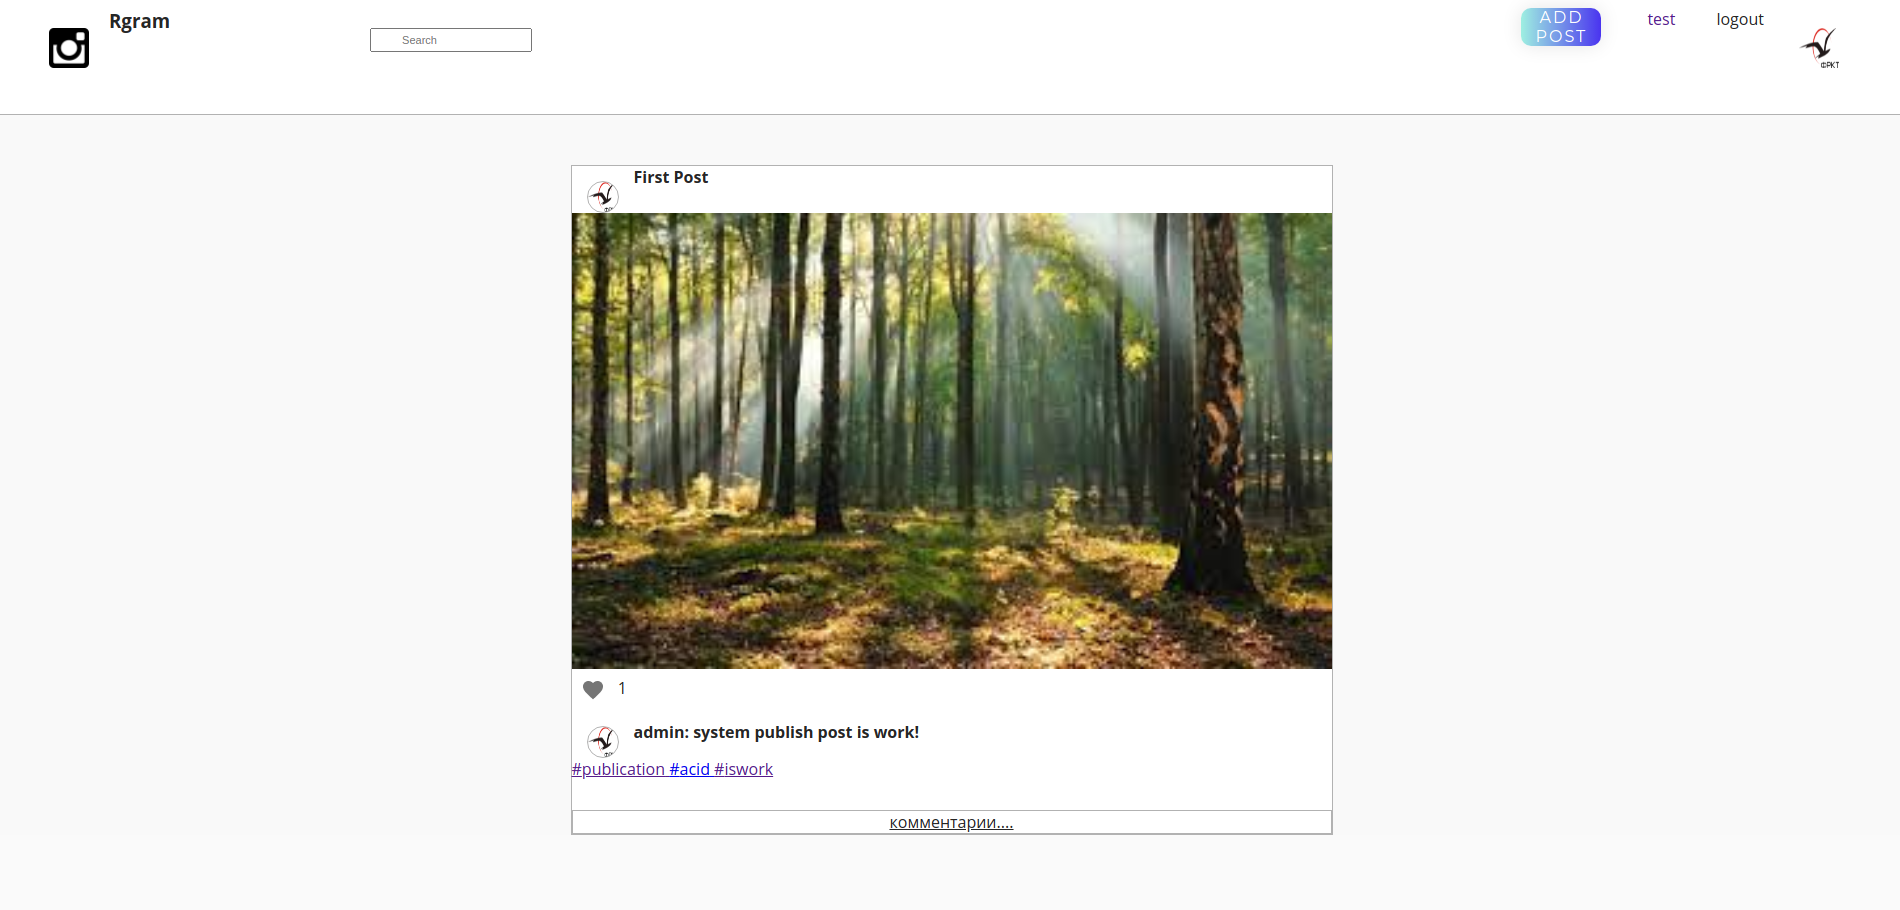
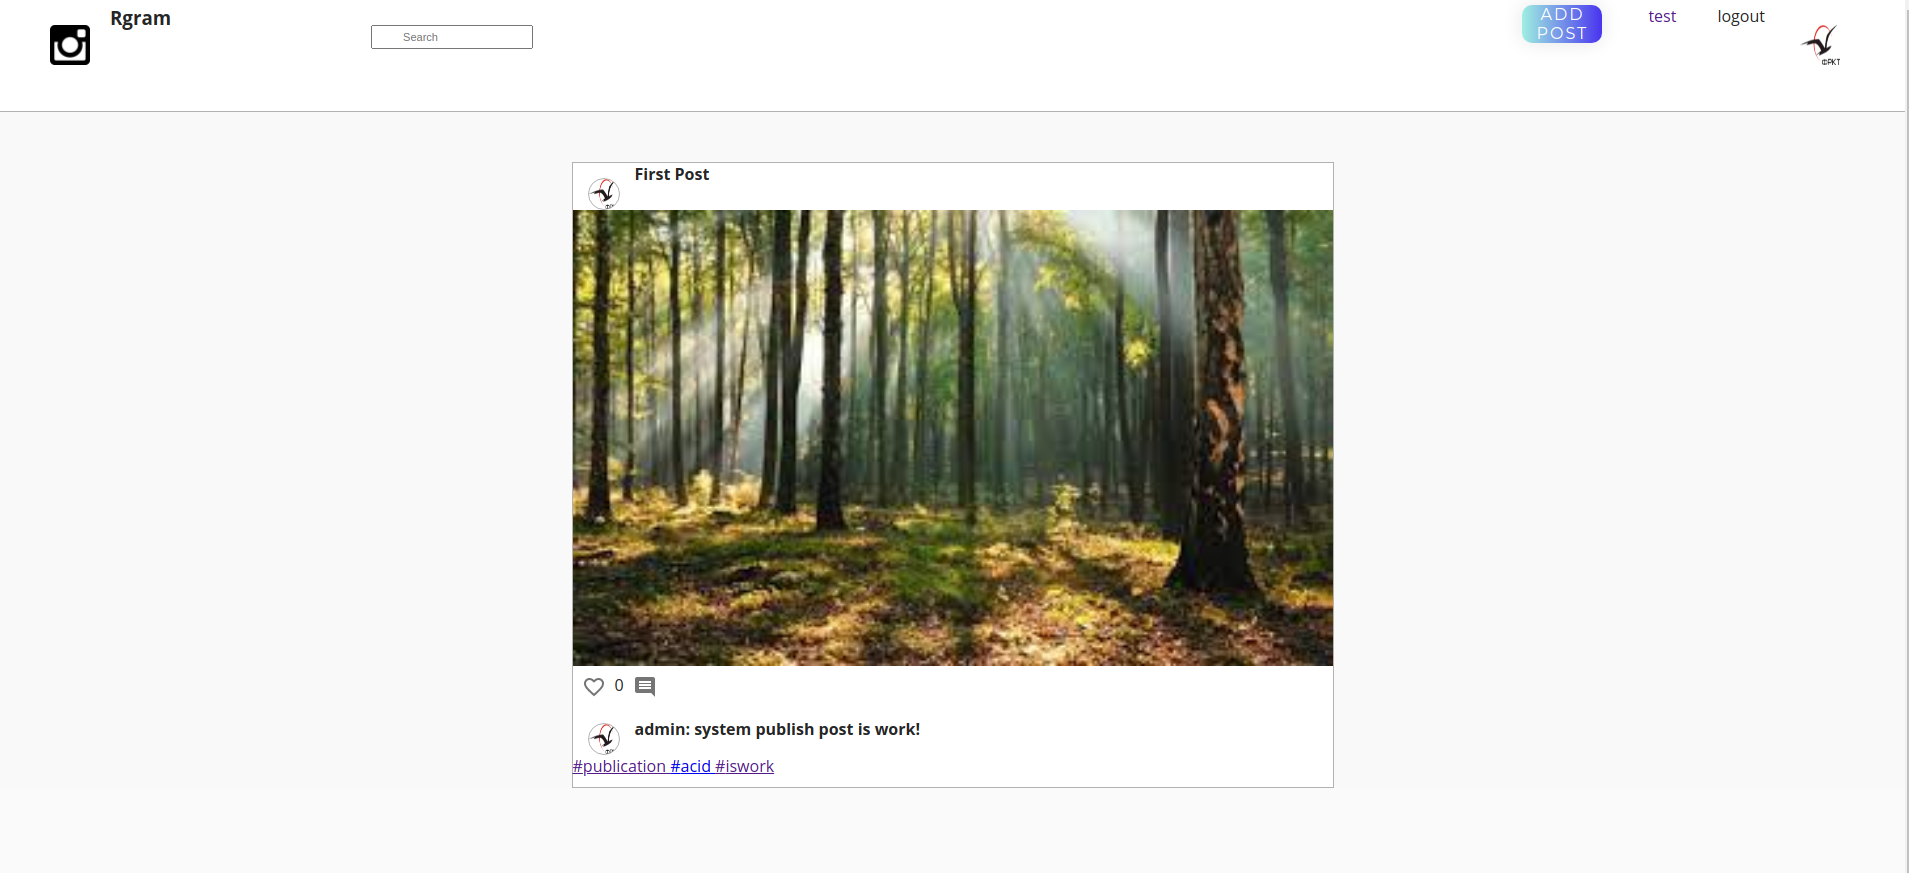
add commets

diff --git a/frontend/src/Components/PostFeed/Tag.js b/frontend/src/Components/PostFeed/Tag.js
@@ -4,6 +4,7 @@ import axios from "axios";
 import Checkbox from "@material-ui/core/Checkbox";
 import FavoriteBorder from "@material-ui/icons/FavoriteBorder";
 import Favorite from "@material-ui/icons/Favorite";
+import CommentIcon from "@material-ui/icons/Comment";
 
 
 class Tag extends Component {
@@ -37,24 +38,21 @@ class Tag extends Component {
         )
     }
 
-    getRenderLike = (likecounts, likeCheck, id_post) =>{
-        console.log(likeCheck)
+    getRenderLike = (likecount, likeCheck, id_post) =>{
         if (!likeCheck) {
             return (
-                <div>
-                    <Checkbox icon={<FavoriteBorder/>}
-                              checkedIcon={<Favorite/>}
-                              name="checkedH"
-                              onChange={(event) => this.sendLike(id_post)}/>{likecounts}
-                </div>);
+                <div><Checkbox icon={<FavoriteBorder/>}
+                               checkedIcon={<Favorite/>}
+                               name="checkedH"
+                               onChange={(event) => this.sendLike(id_post)}/>{likecount}<a href={"/comments/" + id_post} ><Checkbox icon={<CommentIcon/>}  checkedIcon={<CommentIcon/>} onChange={() =>{ return window.location = "/comments/" + id_post}}/></a></div>
+            );
         }
         return (
-            <div>
-                <Checkbox icon={<Favorite/>}
-                          checkedIcon={<FavoriteBorder/>}
-                          name="checkedH"
-                          onChange={(event) => this.sendLike(id_post)}/> {likecounts}
-            </div>);
+            <div><Checkbox icon={<Favorite/>}
+                           checkedIcon={<FavoriteBorder/>}
+                           name="checkedH"
+                           onChange={(event) => this.sendLike(id_post)}/> {likecount}<a href={"/comments/" + id_post} ><Checkbox icon={<CommentIcon/>}  checkedIcon={<CommentIcon/>} onChange={() =>{ return window.location = "/comments/" + id_post}}/></a></div>
+        );
 
     }
 
@@ -90,8 +88,7 @@ class Tag extends Component {
                             <img  src={"http://localhost:4433" + e.owner.avatar.replace("/nginx", '')} alt="dp" className="user"   />
                             <h4 className="caption-text fix-image">{e.owner.name}: {e.content}  </h4>
                         </div>
-                        <div>{items}</div>
-                        <div className="comment-area-btn"><a href={"/comments/" + e.id}>комментарии....</a></div>
+                        <div className="tag">{items}</div>
                     </div>);
             }).reverse();
         }

diff --git a/frontend/src/Components/PostFeed/PostFeed.js b/frontend/src/Components/PostFeed/PostFeed.js
@@ -4,6 +4,7 @@ import { getPostThunk } from "../../Actions/getPostActions";
 import Checkbox from '@material-ui/core/Checkbox';
 import Favorite from '@material-ui/icons/Favorite';
 import FavoriteBorder from '@material-ui/icons/FavoriteBorder';
+import CommentIcon from '@material-ui/icons/Comment';
 import axios from "axios";
 
 class PostFeed extends Component {
@@ -31,20 +32,18 @@ class PostFeed extends Component {
   getRenderLike = (likecount, likeCheck, id_post) =>{
     if (!likeCheck) {
        return (
-           <div>
-         <Checkbox icon={<FavoriteBorder/>}
+         <div><Checkbox icon={<FavoriteBorder/>}
                                            checkedIcon={<Favorite/>}
                                            name="checkedH"
-                                           onChange={(event) => this.sendLike(id_post)}/>{likecount}
-       </div>);
+                        onChange={(event) => this.sendLike(id_post)}/>{likecount}<a href={"/comments/" + id_post} ><Checkbox icon={<CommentIcon/>}  checkedIcon={<CommentIcon/>} onChange={() =>{ return window.location = "/comments/" + id_post}}/></a></div>
+       );
     }
     return (
-        <div>
-          <Checkbox icon={<Favorite/>}
+          <div><Checkbox icon={<Favorite/>}
                                         checkedIcon={<FavoriteBorder/>}
                                         name="checkedH"
-                                        onChange={(event) => this.sendLike(id_post)}/> {likecount}
-        </div>);
+                                        onChange={(event) => this.sendLike(id_post)}/> {likecount}<a href={"/comments/" + id_post} ><Checkbox icon={<CommentIcon/>}  checkedIcon={<CommentIcon/>} onChange={() =>{ return window.location = "/comments/" + id_post}}/></a></div>
+       );
 
   }
 
@@ -79,8 +78,7 @@ class PostFeed extends Component {
           <img  src={"http://localhost:4433" + e.owner.avatar.replace("/nginx", '')} alt="dp" className="user"   />
           <h4 className="caption-text fix-image">{e.owner.name}: {e.content}  </h4>
         </div>
-        <div>{items}</div>
-        <div className="comment-area-btn"><a href={"/comments/" + e.id}>комментарии....</a></div>
+        <div className="tag">{items}</div>
       </div>);
     }).reverse();
     }

diff --git a/frontend/src/App.js b/frontend/src/App.js
@@ -9,6 +9,7 @@ import SignupForm from "./Components/SignupForm";
 import LoginForm from "./Components/LoginUserForm";
 import Tag from "./Components/PostFeed/Tag";
 import Profile from "./Components/Profile";
+import Comment from "./Components/PostFeed/Comment";
 
 class App extends Component {
   constructor(props) {
@@ -34,6 +35,7 @@ class App extends Component {
             <Route exact path="/login"  component={LoginForm} />
             <Route exact path="/tags/:name" component={Tag} />
             <Route exact path="/profile"  component={Profile} />
+            <Route exact path="/comments/:name" component={Comment} />
         </div>
       </Router>
     );

diff --git a/frontend/src/App.css b/frontend/src/App.css
@@ -75,7 +75,13 @@ body{
   decoration: none;
   color: inherit;
 }
-
+.tag{
+  margin-bottom: 10px;
+}
+.comments-icon{
+  margin-top: 20px;
+  margin-left: 30px;
+}
 .post {
   border: 1px solid rgba(0,0,0,0.3);
   background: #fff;

diff --git a/tech/views.py b/tech/views.py
@@ -58,6 +58,7 @@ def get_post(request: HttpRequest):
 
 @api_view(['GET'])
 def comments_with_id_post(request: HttpRequest, pk):
+
     all_comments = CommentsModel.objects.filter(moment_id=pk)
     serializer = CommentSerializer(all_comments, many=True)
     return Response(serializer.data)
